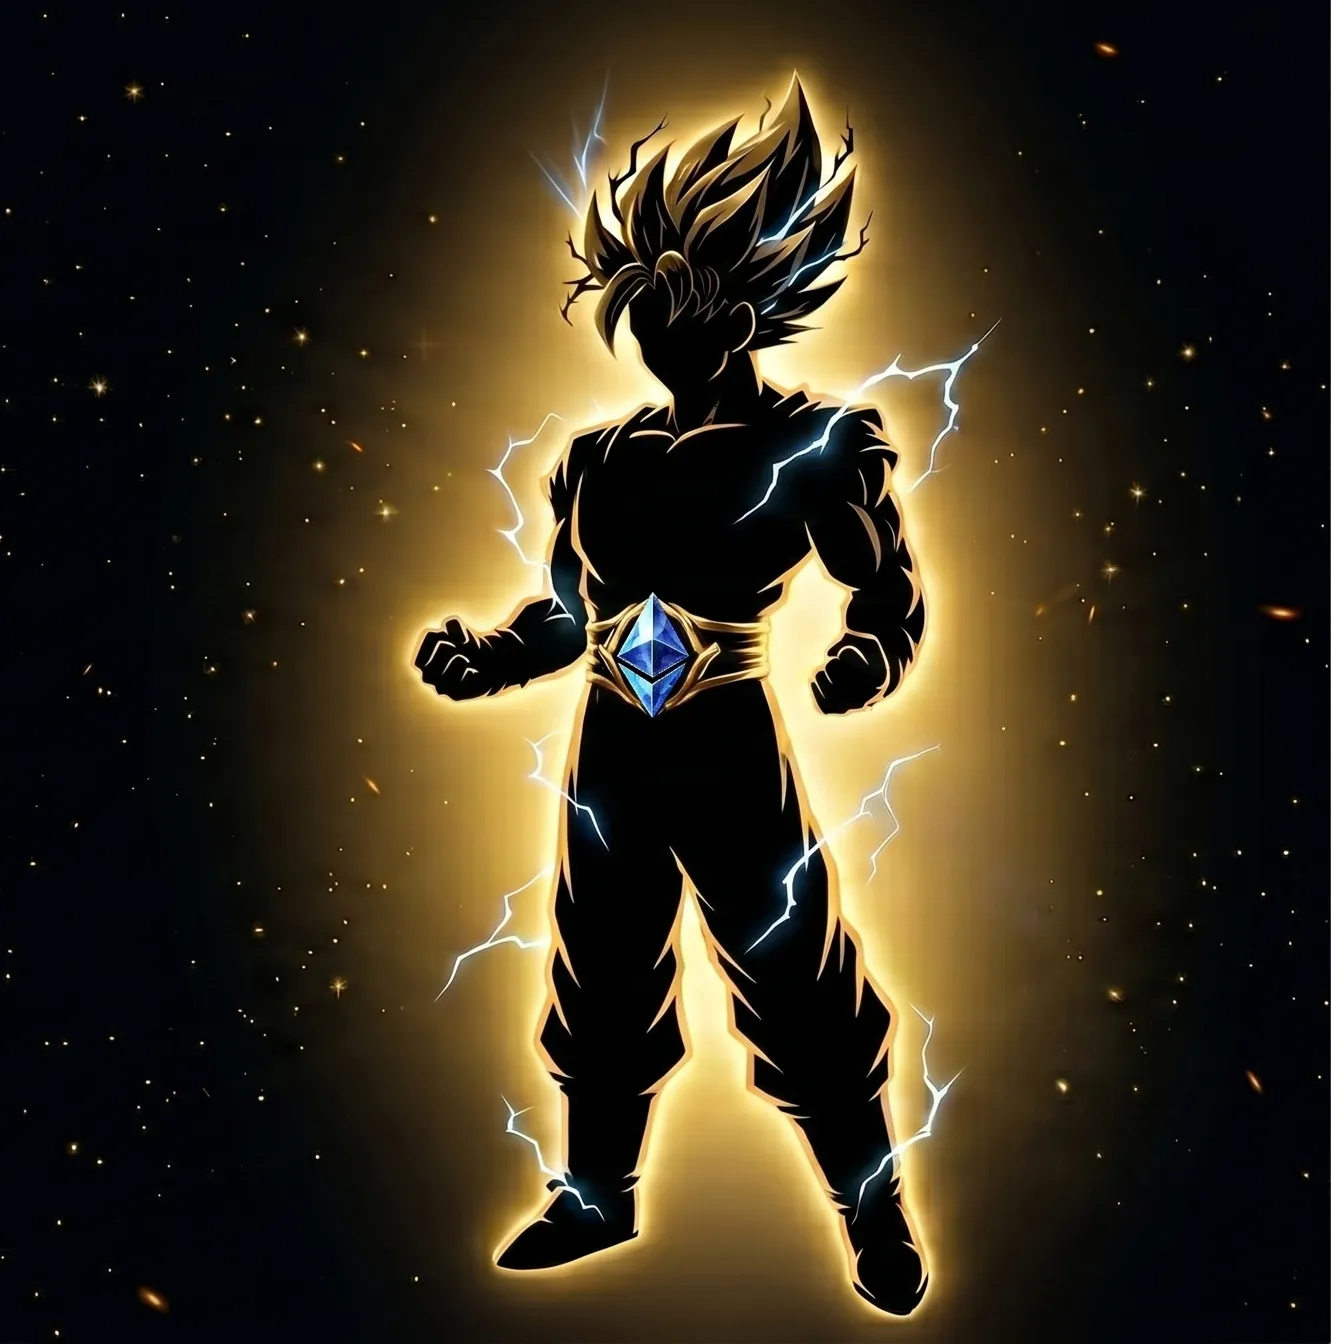
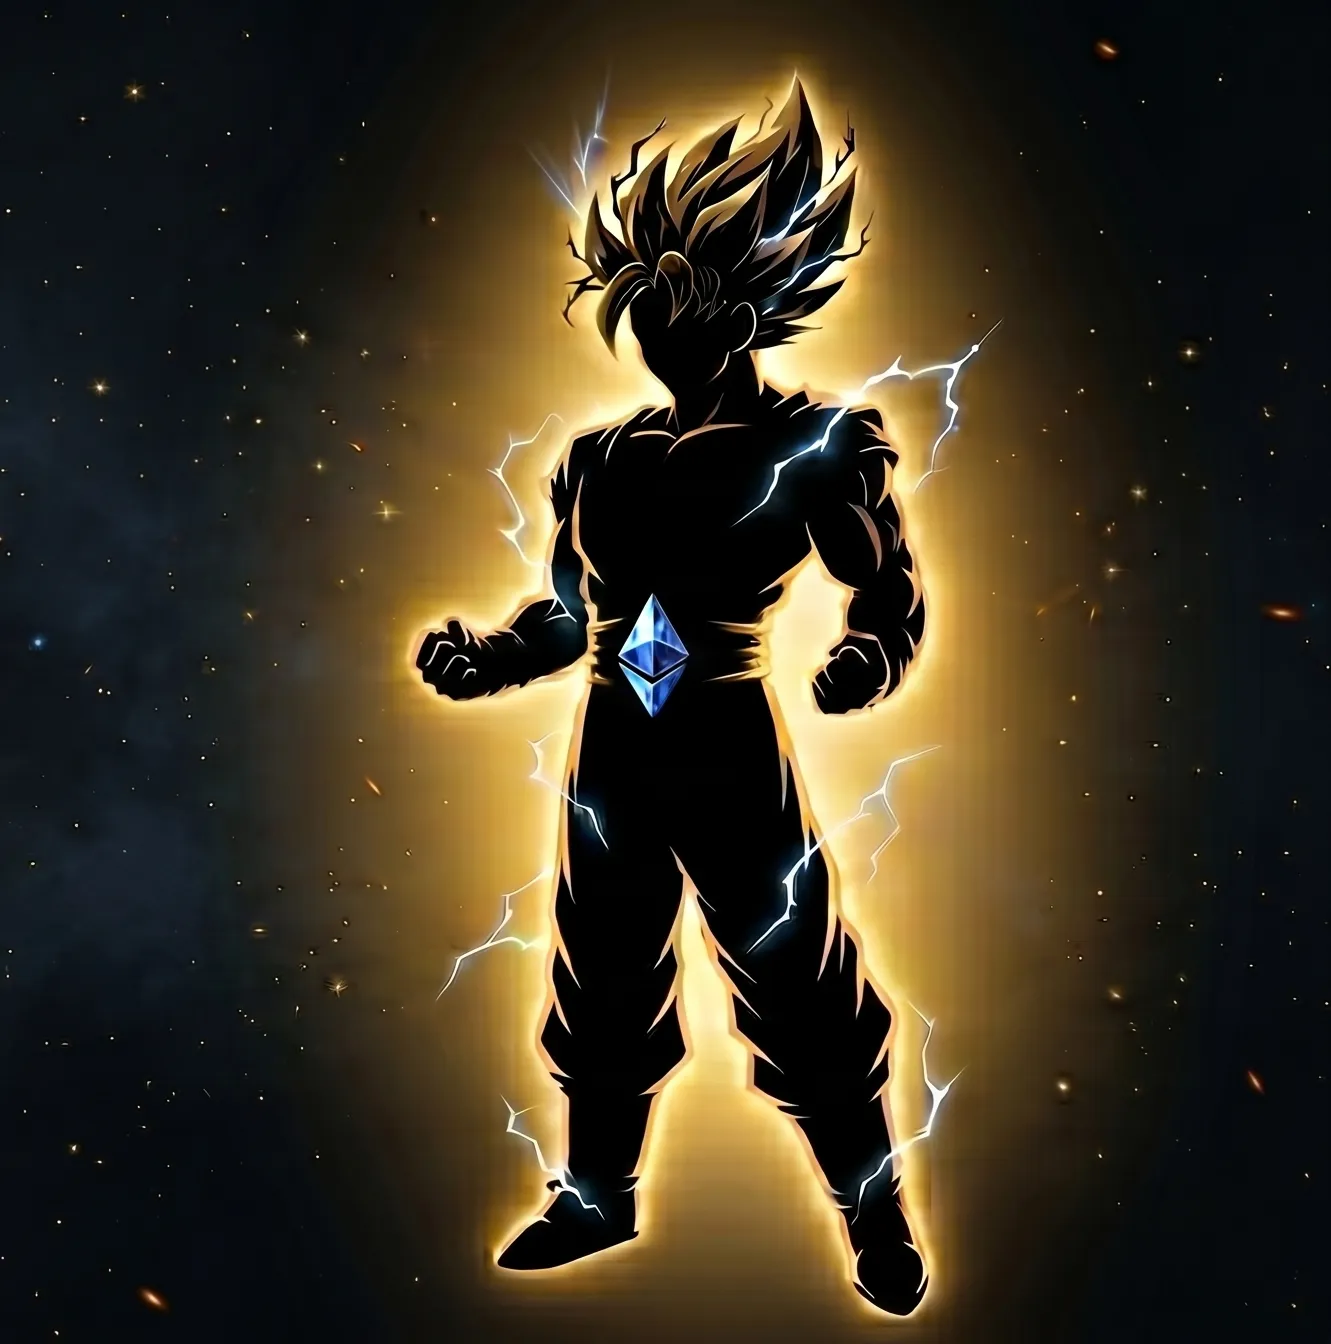
swap new hero image, restore consistent scroll indicator with footer-only hide

diff --git a/src/style.css b/src/style.css
@@ -630,64 +630,54 @@ ul { list-style: none; }
 
 .hero__ca-copy-label { font-family: var(--font-mono); }
 
-/* One consistent scroll indicator across all breakpoints: fixed bottom-centre,
-   fades out once the footer scrolls into view (toggled via .is-hidden in JS). */
+/* One consistent scroll indicator on EVERY breakpoint: thin gold lines flanking
+   the word SCROLL, fixed along the bottom row (level with the CA button), and
+   faded out only when the footer scrolls into view (.is-hidden toggled in JS). */
 .hero__scroll-hint {
   position: fixed;
-  bottom: 32px;
+  bottom: 34px;
   left: 0;
   right: 0;
   margin: 0 auto;
-  width: max-content;
+  width: min(62vw, 280px);
   z-index: 130;
   display: flex;
-  flex-direction: column;
+  flex-direction: row;
   align-items: center;
-  gap: 8px;
+  justify-content: center;
+  gap: 12px;
   font-family: var(--font-mono);
   font-size: 10px;
-  letter-spacing: 0.2em;
-  color: rgba(255, 247, 224, 0.4);
-  animation: scroll-hint-bob 2s ease-in-out infinite;
+  letter-spacing: 0.3em;
+  color: rgba(255, 210, 48, 0.72);
+  text-shadow: 0 0 18px rgba(255, 210, 48, 0.28);
   pointer-events: none;
-  transition: opacity 0.4s ease;
+  transition: opacity 0.45s ease;
+  animation: scroll-hint-bob 2.6s ease-in-out infinite;
 }
+
+.hero__scroll-hint span { white-space: nowrap; }
+
+.hero__scroll-hint::before,
+.hero__scroll-hint::after {
+  content: '';
+  flex: 1;
+  height: 1px;
+  background: rgba(255, 210, 48, 0.4);
+  box-shadow: 0 0 12px rgba(255, 210, 48, 0.2);
+}
+
+/* The vertical chevron from the old design is unused in the line layout */
+.hero__scroll-arrow { display: none; }
 
 .hero__scroll-hint.is-hidden {
   opacity: 0;
 }
 
-.hero__scroll-arrow {
-  display: flex;
-  flex-direction: column;
-  align-items: center;
-  gap: 3px;
-}
-
-.hero__scroll-arrow span,
-.hero__scroll-arrow span::before,
-.hero__scroll-arrow span::after {
-  display: block;
-  width: 8px;
-  height: 8px;
-  border-right: 1.5px solid currentColor;
-  border-bottom: 1.5px solid currentColor;
-  transform: rotate(45deg);
-}
-
-.hero__scroll-arrow span { position: relative; }
-.hero__scroll-arrow span::before,
-.hero__scroll-arrow span::after {
-  content: '';
-  position: absolute;
-  left: 0;
-}
-.hero__scroll-arrow span::before { top: -6px; opacity: 0.4; }
-.hero__scroll-arrow span::after  { top: 6px; opacity: 0.7; }
-
+/* Transform-based bob — keeps opacity free for the footer fade (.is-hidden) */
 @keyframes scroll-hint-bob {
   0%, 100% { transform: translateY(0); }
-  50%       { transform: translateY(6px); }
+  50%      { transform: translateY(4px); }
 }
 
 /* ════════════════════════════════════════
@@ -1642,11 +1632,6 @@ ul { list-style: none; }
       transparent 64%
     );
   }
-}
-
-@keyframes mobile-scroll-pulse {
-  0%, 100% { opacity: 0.62; transform: translateY(0); }
-  50%      { opacity: 1; transform: translateY(6px); }
 }
 
 @media (max-width: 540px) {
